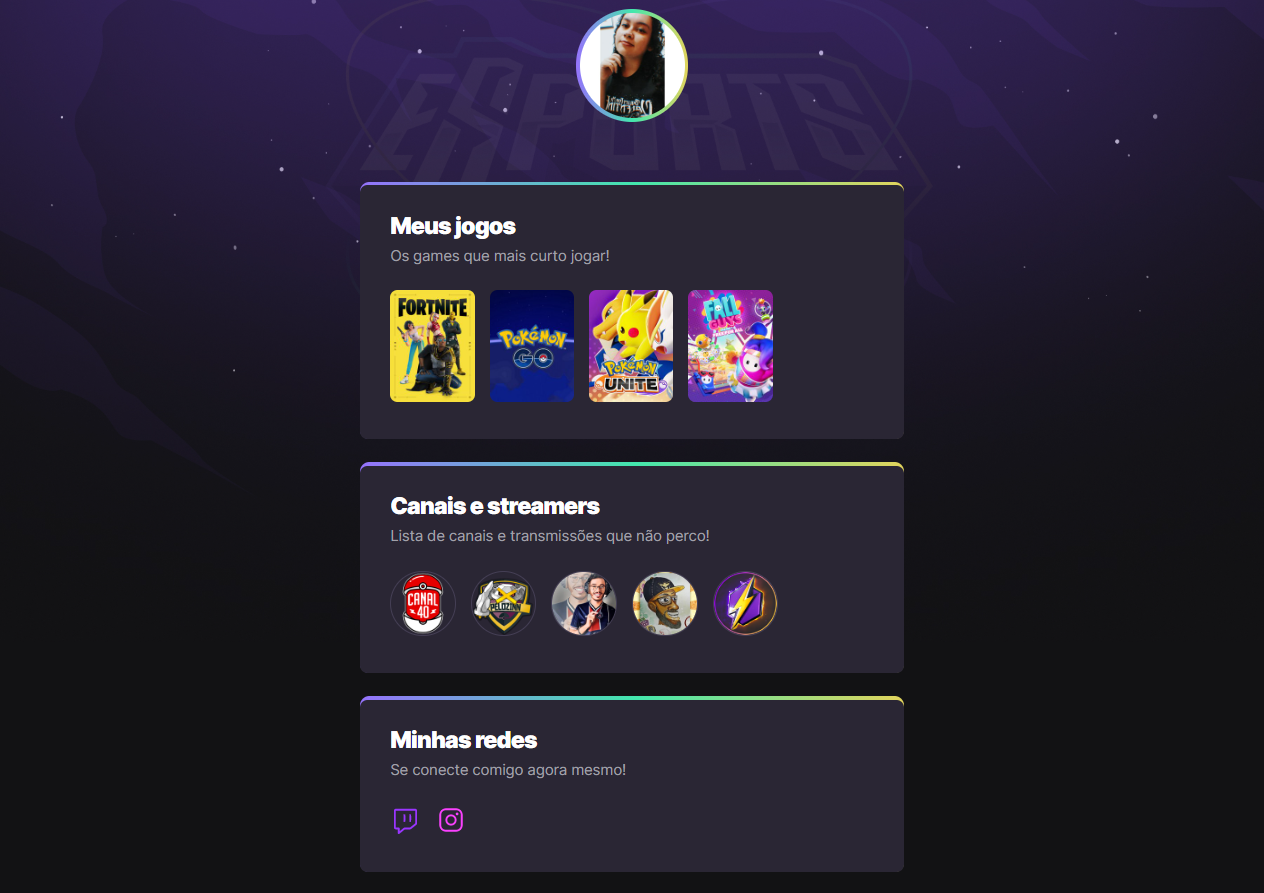
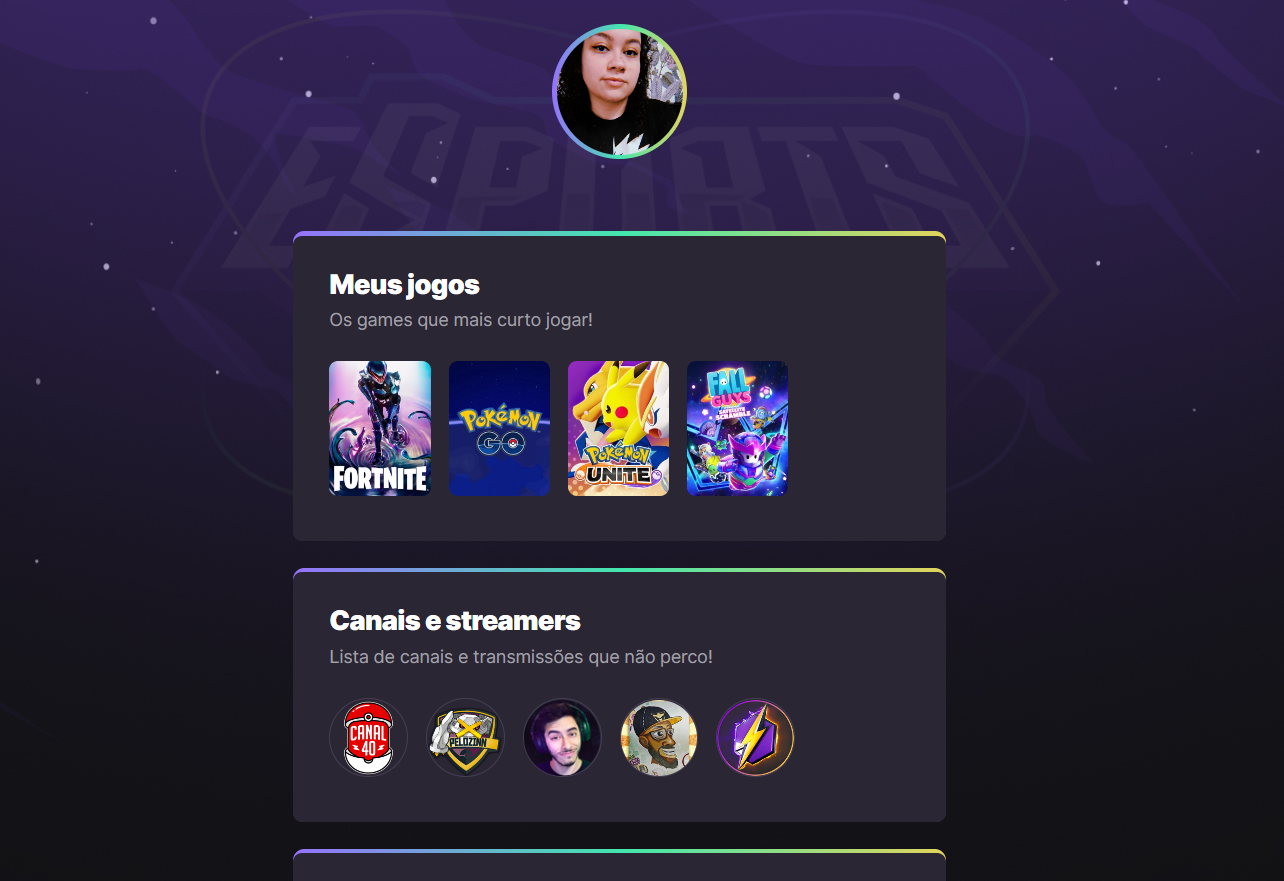
att

diff --git a/index.html b/index.html
@@ -79,8 +79,8 @@
                     </li>
                     <li>
                         <a target="_blank" 
-                        href="https://www.twitch.tv/dexter23psg">
-                            <img src="https://static-cdn.jtvnw.net/jtv_user_pictures/446876d9-2f03-4545-95e8-9d3cd6cd40ad-profile_image-150x150.png" alt="Imagem de dexter23psg">
+                        href="https://www.twitch.tv/patriota">
+                            <img src="https://static-cdn.jtvnw.net/jtv_user_pictures/2aa861aa-06fc-4b0d-8d34-84dcb98dda64-profile_image-70x70.png" alt="Imagem de Patriota">
                         </a>  
                     </li>
                     <li>
